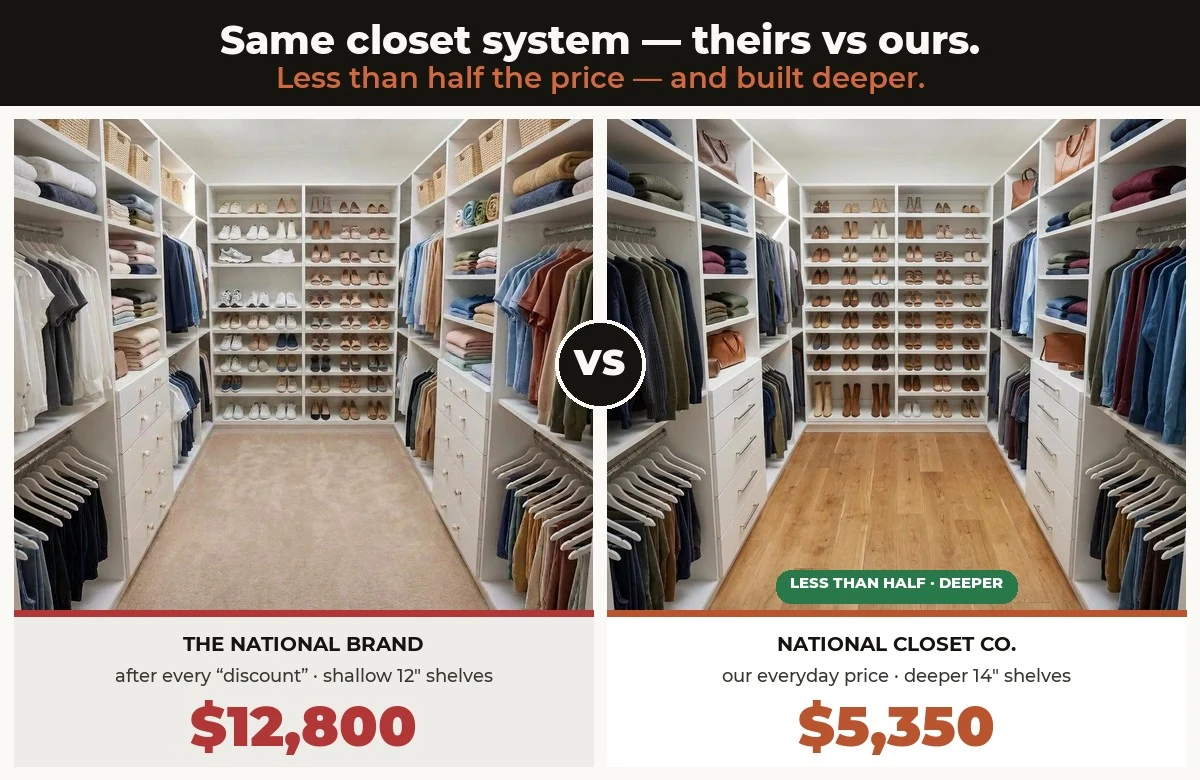
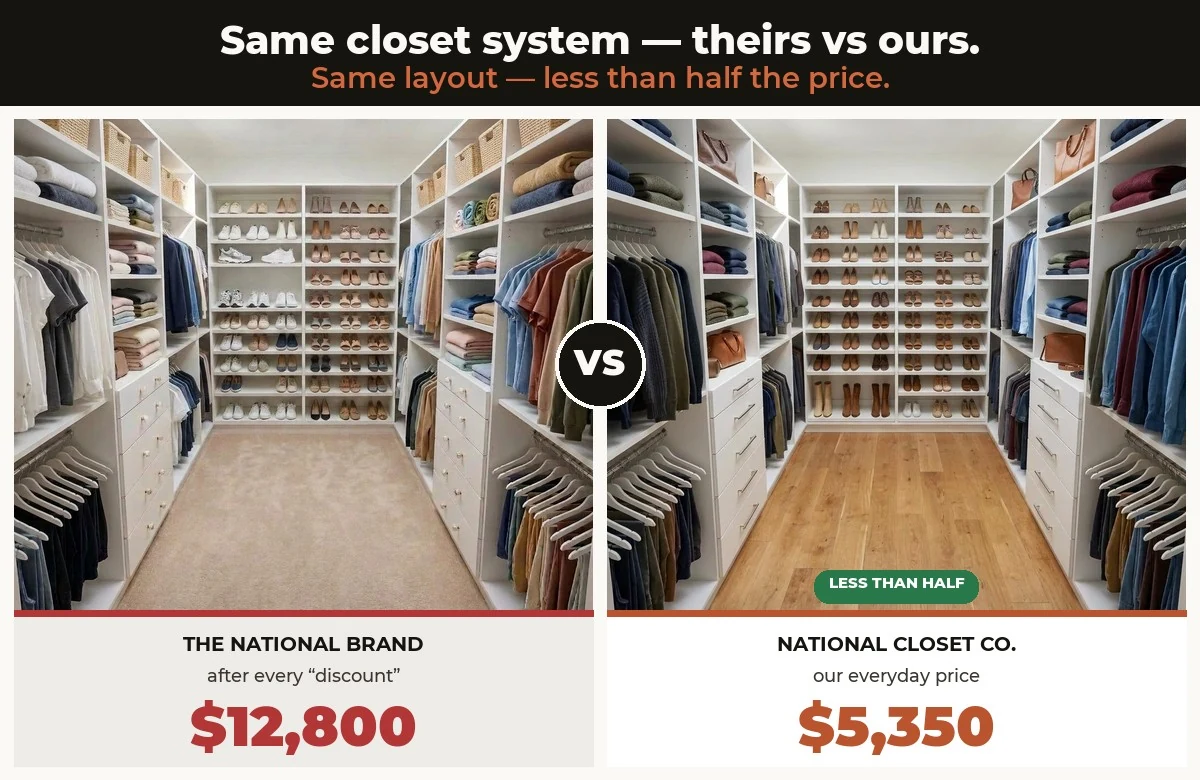
Fake-discounts: drop 12/14 depth claim from caption and image (not visible)

diff --git a/blog/fake-discounts-65-percent-off.html b/blog/fake-discounts-65-percent-off.html
@@ -150,7 +150,7 @@ src="https://www.facebook.com/tr?id=904015652453670&ev=PageView&noscript=1"
 <section class="section section--tight">
   <div class="wrap">
     <div class="prose">
-      <figure><img src="/img/blog-no-fake-discounts.webp" alt="Two all-white melamine walk-in closets built to the same layout — a national brand's with shallow 12-inch shelves priced $12,800 after discounts, and National Closet Company's with deeper 14-inch shelves at our everyday $5,350" width="1200" height="780" /><figcaption>One closet system, two ways to buy it. The national brand&rsquo;s version &mdash; shallow 12&Prime; shelves &mdash; still lands at <strong>$12,800</strong> after every &ldquo;discount.&rdquo; Ours &mdash; <strong>deeper 14&Prime; shelves</strong>, same layout &mdash; is <strong>$5,350</strong> every day. Less than half the price, built deeper.</figcaption></figure>
+      <figure><img src="/img/blog-no-fake-discounts.webp" alt="Two all-white melamine walk-in closets built to the same layout — a national brand's priced $12,800 after discounts, and National Closet Company's at our everyday $5,350" width="1200" height="780" /><figcaption>One closet system, two ways to buy it. The national brand&rsquo;s version still lands at <strong>$12,800</strong> after every &ldquo;discount.&rdquo; Ours &mdash; same layout &mdash; is <strong>$5,350</strong> every day. Less than half the price.</figcaption></figure>
 
       <p>Every homeowner shopping for a custom closet runs into the same performance. You sit down for a quote, you hear a number that makes your stomach drop, and then — right on cue — the discounts begin. First it's <strong>40% off</strong>. Then the salesperson finds another <strong>15%</strong>. And then comes the closer: sign <em>tonight</em>, and there's another <strong>10 to 20%</strong> on top.</p>
 
